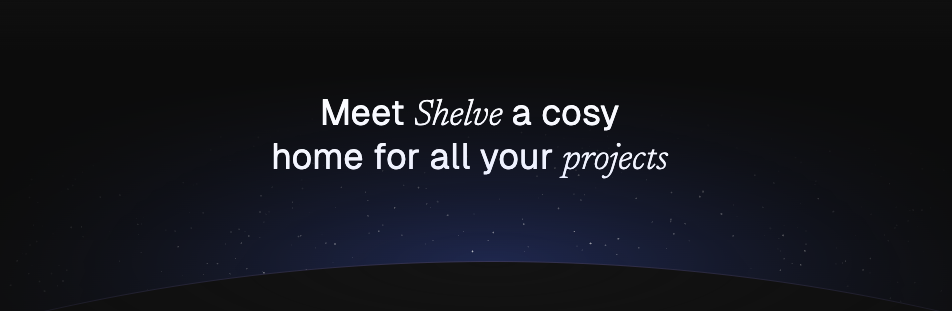
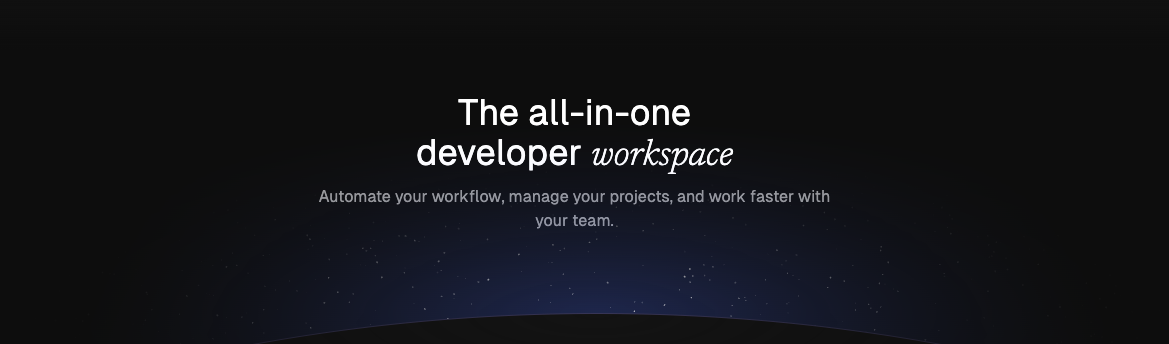
update catchline

diff --git a/apps/app/app/components/landing/Hero.vue b/apps/app/app/components/landing/Hero.vue
@@ -14,9 +14,12 @@ defineShortcuts({
 <template>
   <div class="z-20 h-96 w-full overflow-hidden">
     <div class="mx-auto mt-32 w-full max-w-2xl">
-      <div class="text-balance text-center text-3xl sm:text-4xl">
-        Meet <span class="font-newsreader font-light italic">{{ title }}</span> a cosy home for all your <span class="font-newsreader font-light italic">projects</span>
+      <div class="mx-auto max-w-md text-pretty text-center text-3xl sm:text-4xl">
+        The all-in-one developer <span class="font-newsreader font-light italic">workspace</span>
       </div>
+      <p class="mx-auto mt-2 max-w-lg text-center text-gray-400 sm:block">
+        Automate your workflow, manage your projects, and work faster with your team.
+      </p>
       <p class="mt-4 hidden text-center text-gray-400 sm:block">
         Press <UKbd>S</UKbd> to start your journey
       </p>
